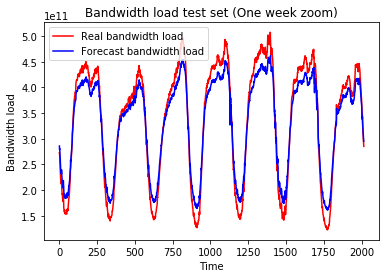
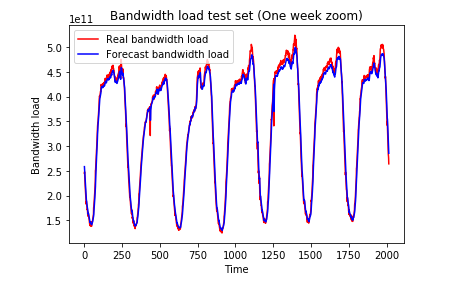
add new images

Changed region(s): [[0.0, 0.0288, 0.9871, 0.9784]]

diff --git a/show_and_tell.html b/show_and_tell.html
@@ -239,13 +239,29 @@
 									<section data-markdown>
 									<textarea data-template>
 										### LSTM Results
-										RMSE came back as 152827, which given the scale of the data isn't bad.
+										RMSE came back as 94827, which given the scale of the data isn't bad.
 
 										![lstm](images-ixp/lstm_plot.png)
 
 										*Remember this is a basic model!*
 									</textarea>
 								</section>
+								<section data-markdown>
+								<textarea data-template>
+									### LSTM Error Detect
+
+									![lstm](images-ixp/errror_graph.PNG)
+
+								</textarea>
+							</section>
+							<section data-markdown>
+							<textarea data-template>
+								### LSTM Error Detect
+
+								![lstm](images-ixp/error_calc.PNG)
+
+							</textarea>
+						</section>
 								<section data-markdown>
 									<textarea data-template>
 										## Traffic Comparison
